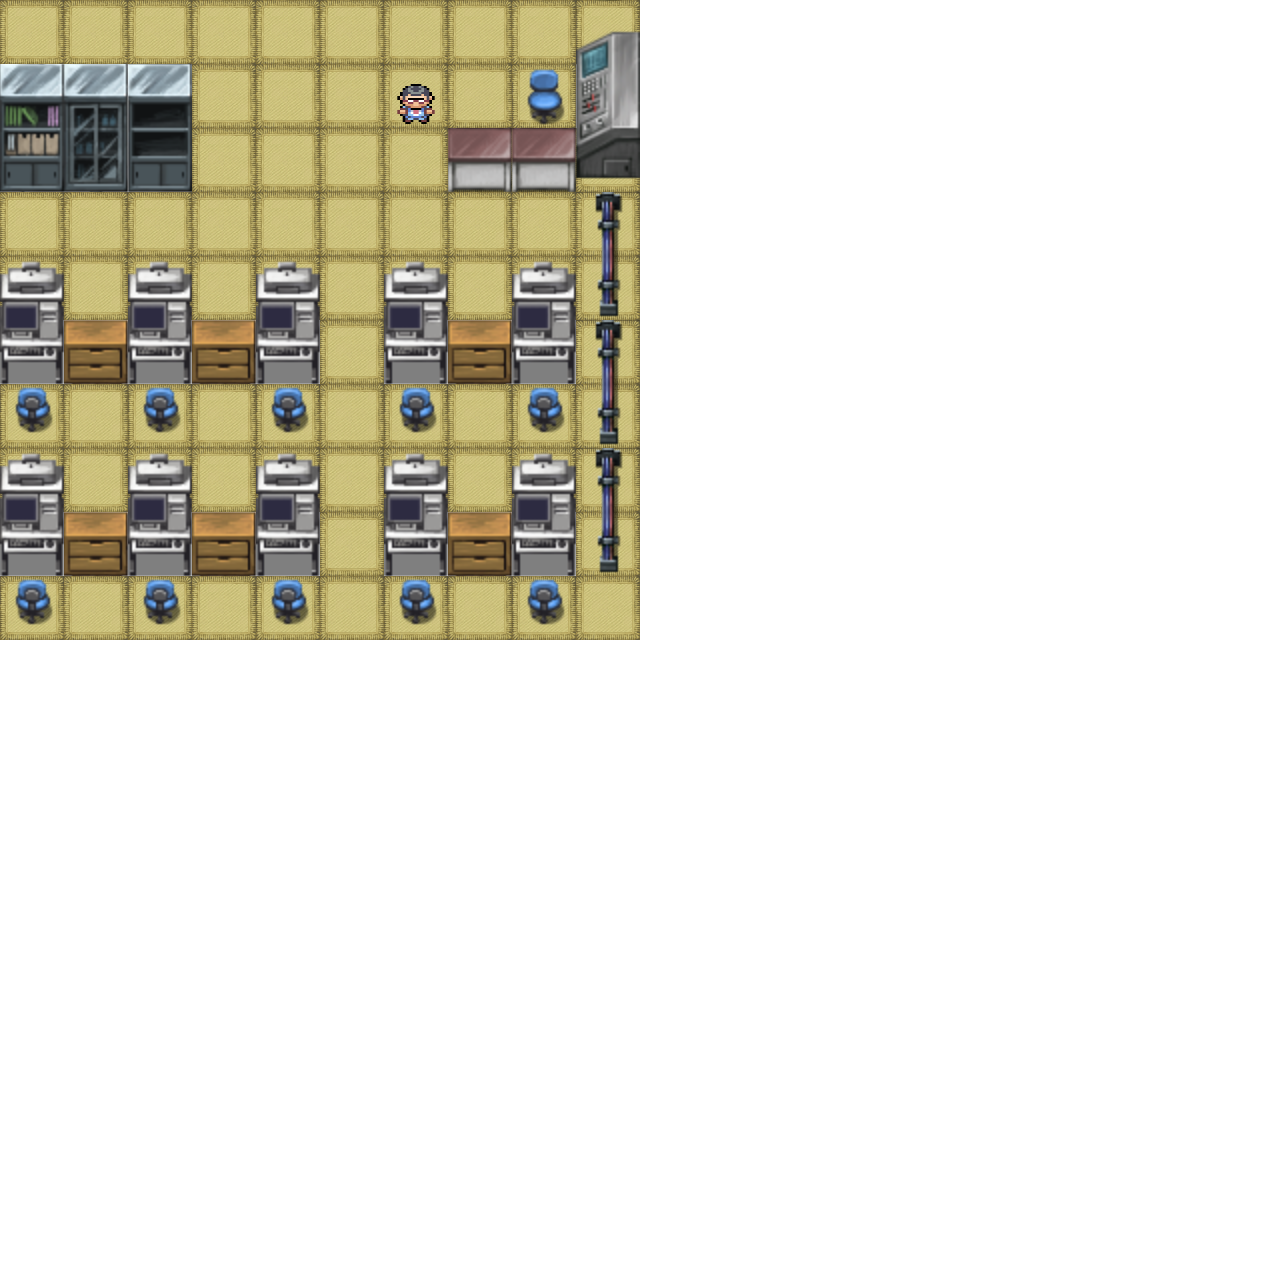
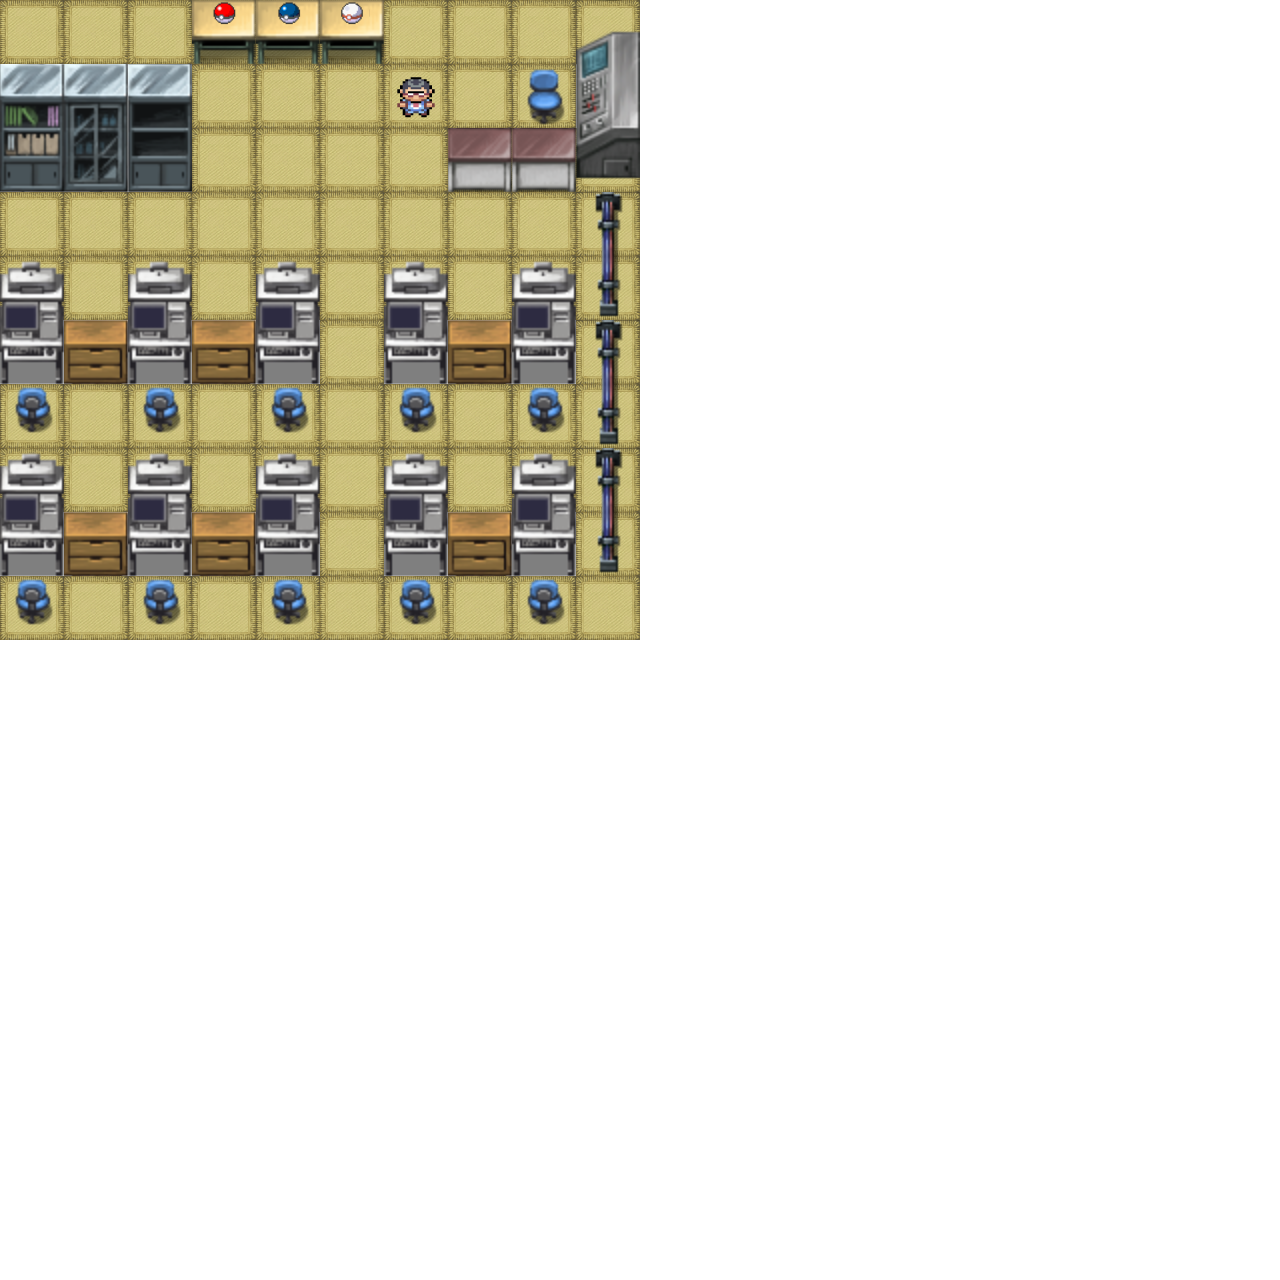
퀘스트 0번의 몬스터볼 이미지 첨가

Changed region(s): [[0.125, 0.0, 0.3125, 0.0625], [0.3125, 0.0625, 0.3438, 0.0938]]

diff --git a/sinTest/add_map_yoda/js/Game.js b/sinTest/add_map_yoda/js/Game.js
@@ -73,8 +73,8 @@ var map01=[
 
 //맨 처음 건물안 
 var map000 = [
-    [ -1, -1, -1,  -1,  -1,  -1, -1, -1, -1, 210],
-    [ 202, 203, 204, -1, -1, -1, -1, -1,205,2101],
+    [ -1, -1, -1,  509,  510,  511, -1, -1, -1, 210],
+    [ 202, 203, 204, -1, -1, -1, 512, -1,205,2101],
     [ 2021, 2031,2041, -1, -1, -1, -1,206, 206,2102],
     [ -1, -1, -1, -1, -1, -1, -1, -1, -1, 211],
     [207, -1,207, -1,207, -1,207, -1,207, 2111],
@@ -142,6 +142,9 @@ var boss = new Image();
 // 보스 맵타일
 var b_tile = new Image();
 var b_tile2 = new Image();
+// npc
+var npc = new Image();
+var ball = new Image();
 
 
 
@@ -165,7 +168,8 @@ appliance.src='./img/appliance.png';
 boss.src='./img/boss.png';
 b_tile.src='./img/bossmap_1.PNG';
 b_tile2.src='./img/b_tile02.png';
-
+npc.src='./img/npc.png';
+ball.src='./img/item00.png';
 
 // Map coordinate
 var mapX = 0;
@@ -486,6 +490,26 @@ function draw(){
                 	context.drawImage(b_tile, 0, 0, MAPIMG_U, MAPIMG_U, mapX, mapY, UNIT, UNIT);
                 	context.drawImage(b_tile2, 96, 448, MAPIMG_U/2, MAPIMG_U/2, mapX, mapY, UNIT, UNIT);
                 	break;
+                case 512:
+                	context.drawImage(bottom, 192, 320, MAPIMG_U, MAPIMG_U, mapX, mapY, UNIT, UNIT);
+                	context.drawImage(npc,720,10,72, 96, mapX, mapY, UNIT, UNIT );
+                	break;
+                case 509:
+                	context.drawImage(bottom, 192, 320, MAPIMG_U, MAPIMG_U, mapX, mapY, UNIT, UNIT);
+                	context.drawImage(appliance, 0, 64, MAPIMG_U/2, MAPIMG_U/2, mapX, mapY, UNIT, UNIT);
+                	context.drawImage(ball, 0, 25, 25, 25, 210, 0, 30, 30);
+                	break;
+                case 510:
+                	context.drawImage(bottom, 192, 320, MAPIMG_U, MAPIMG_U, mapX, mapY, UNIT, UNIT);
+                	context.drawImage(appliance, 0, 64, MAPIMG_U/2, MAPIMG_U/2, mapX, mapY, UNIT, UNIT);
+                	context.drawImage(ball, 25, 25, 25, 25, 276, 0, 30, 30);
+                	break;
+                case 511:
+                	context.drawImage(bottom, 192, 320, MAPIMG_U, MAPIMG_U, mapX, mapY, UNIT, UNIT);
+                	context.drawImage(appliance, 0, 64, MAPIMG_U/2, MAPIMG_U/2, mapX, mapY, UNIT, UNIT);
+                	context.drawImage(ball, 50, 25, 25, 25, 340, 0, 30, 30);
+                	break;
+                	
             }
             mapX += UNIT;
 		}

diff --git a/AllForOne/js/map/Init.js b/AllForOne/js/map/Init.js
@@ -84,7 +84,7 @@ village02.src = './img/map/stage02_npc.png';
 
 
 var map_init = [
-    [   0,   0,   0,   0,   0,   0,   0,   0,   0, 210],
+    [   0,   0,   0,   509,   510,   511,   0,   0,   0, 210],
     [ 202, 203, 204,   0,   0,   0, 501,   0, 205,2101],
     [2021,2031,2041,   0,   0,   0,   0, 206, 206,2102],
     [   0,   0,   0,   0,   0,   0,   0,   0,   0, 211],
